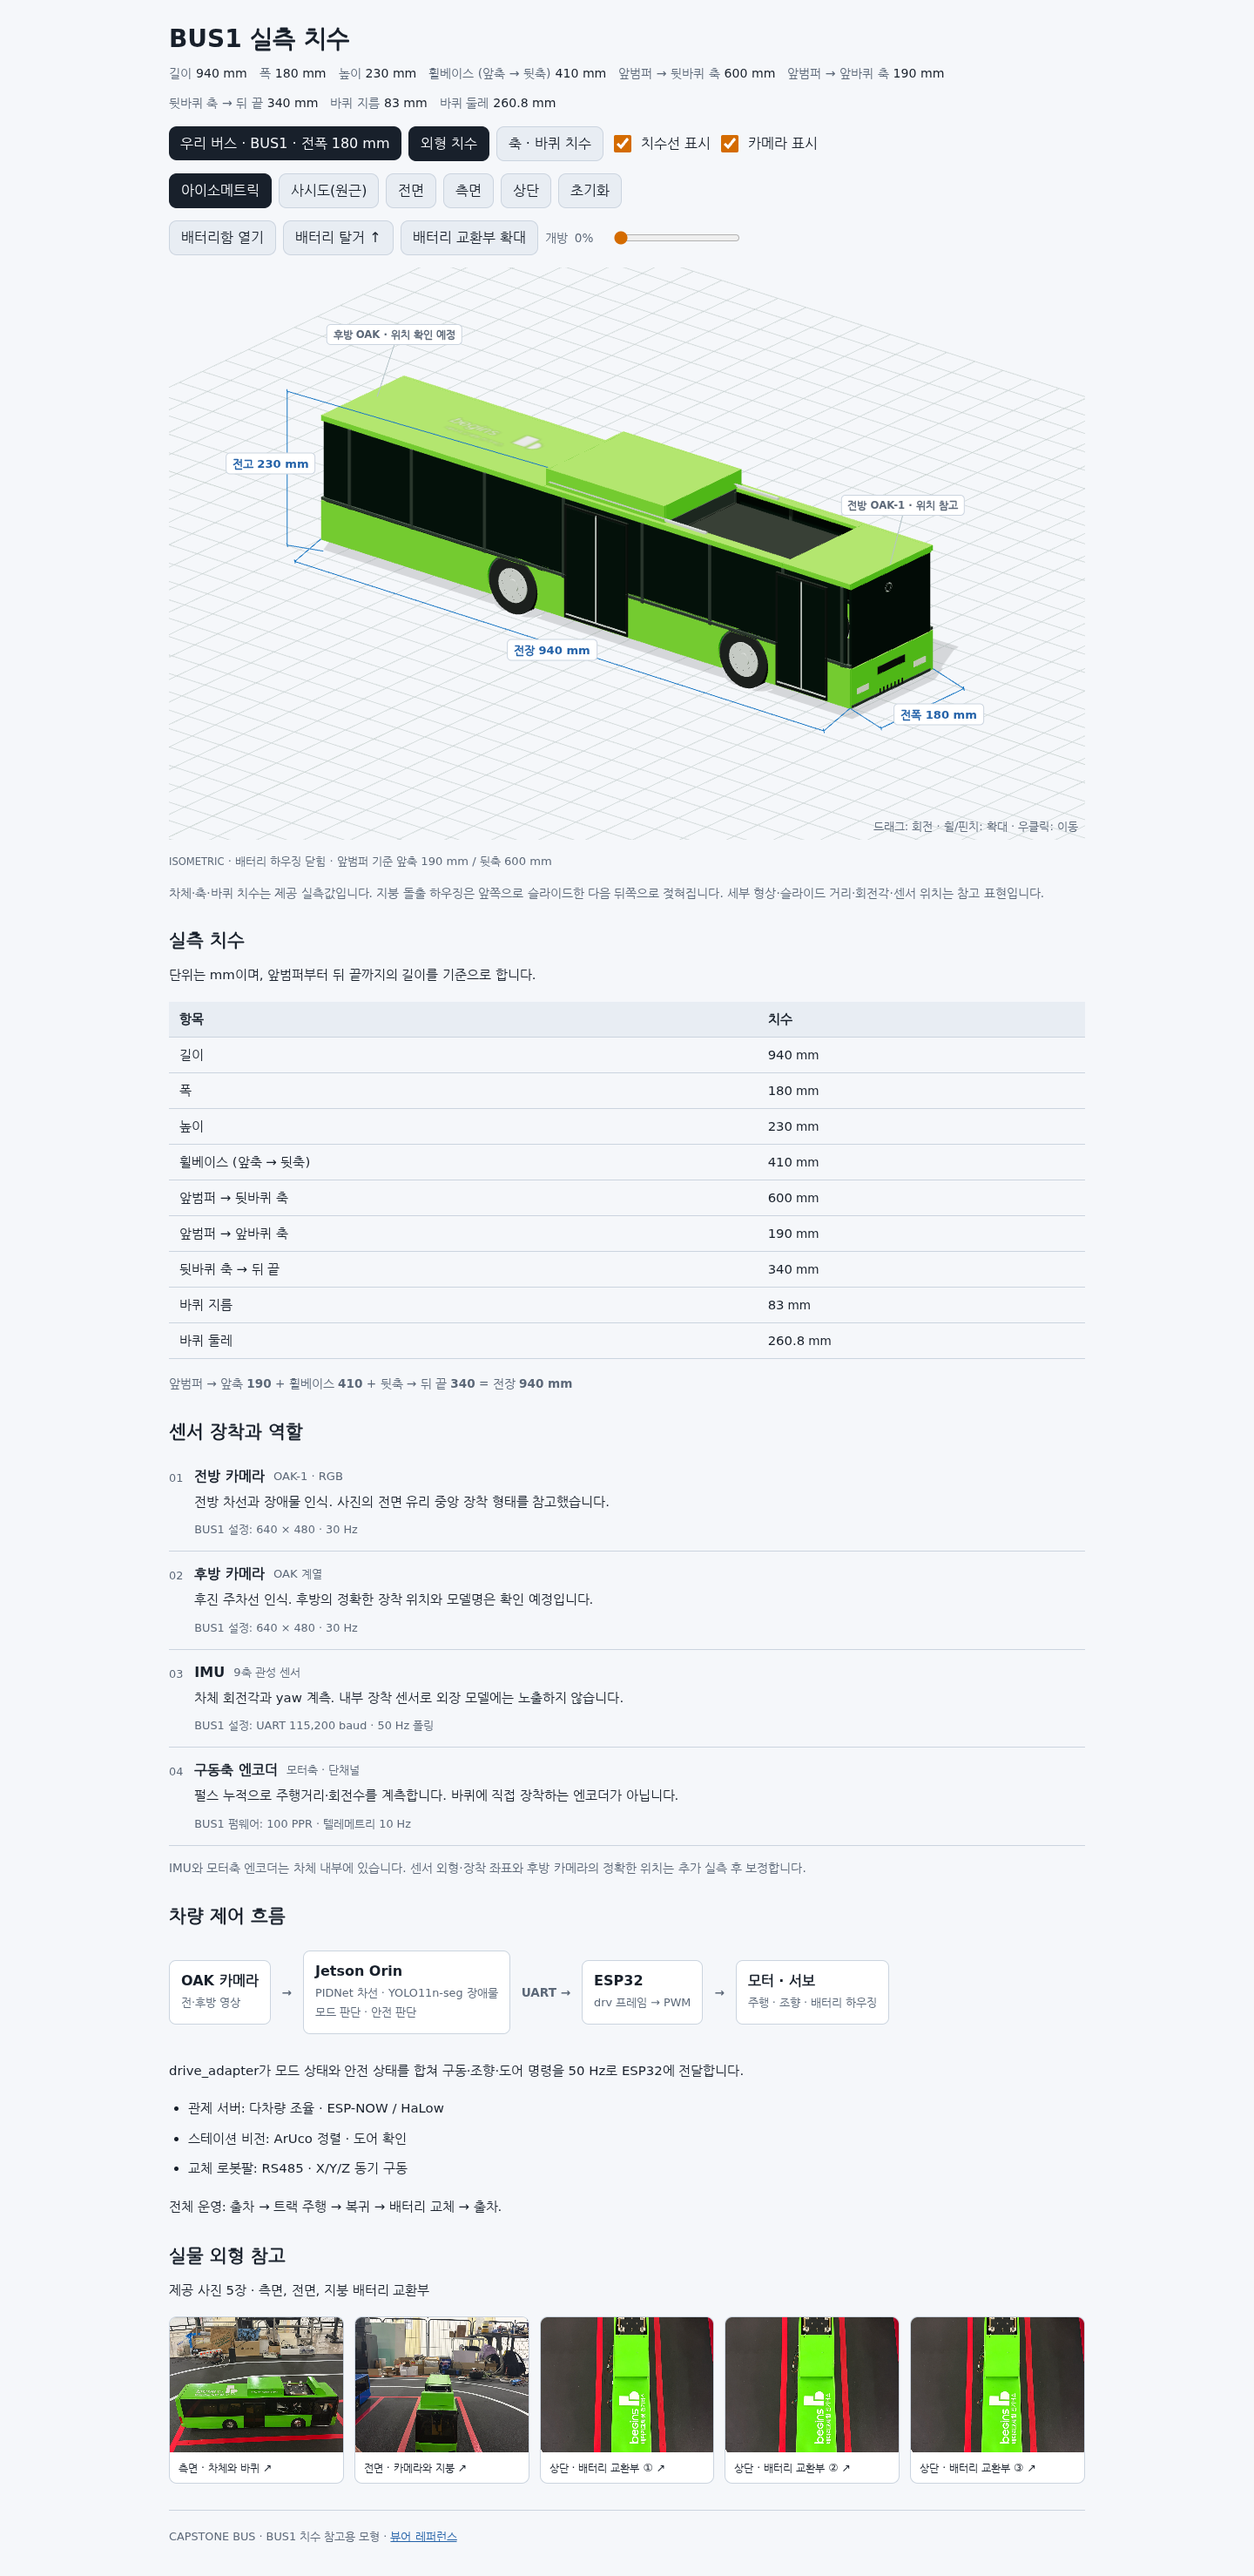
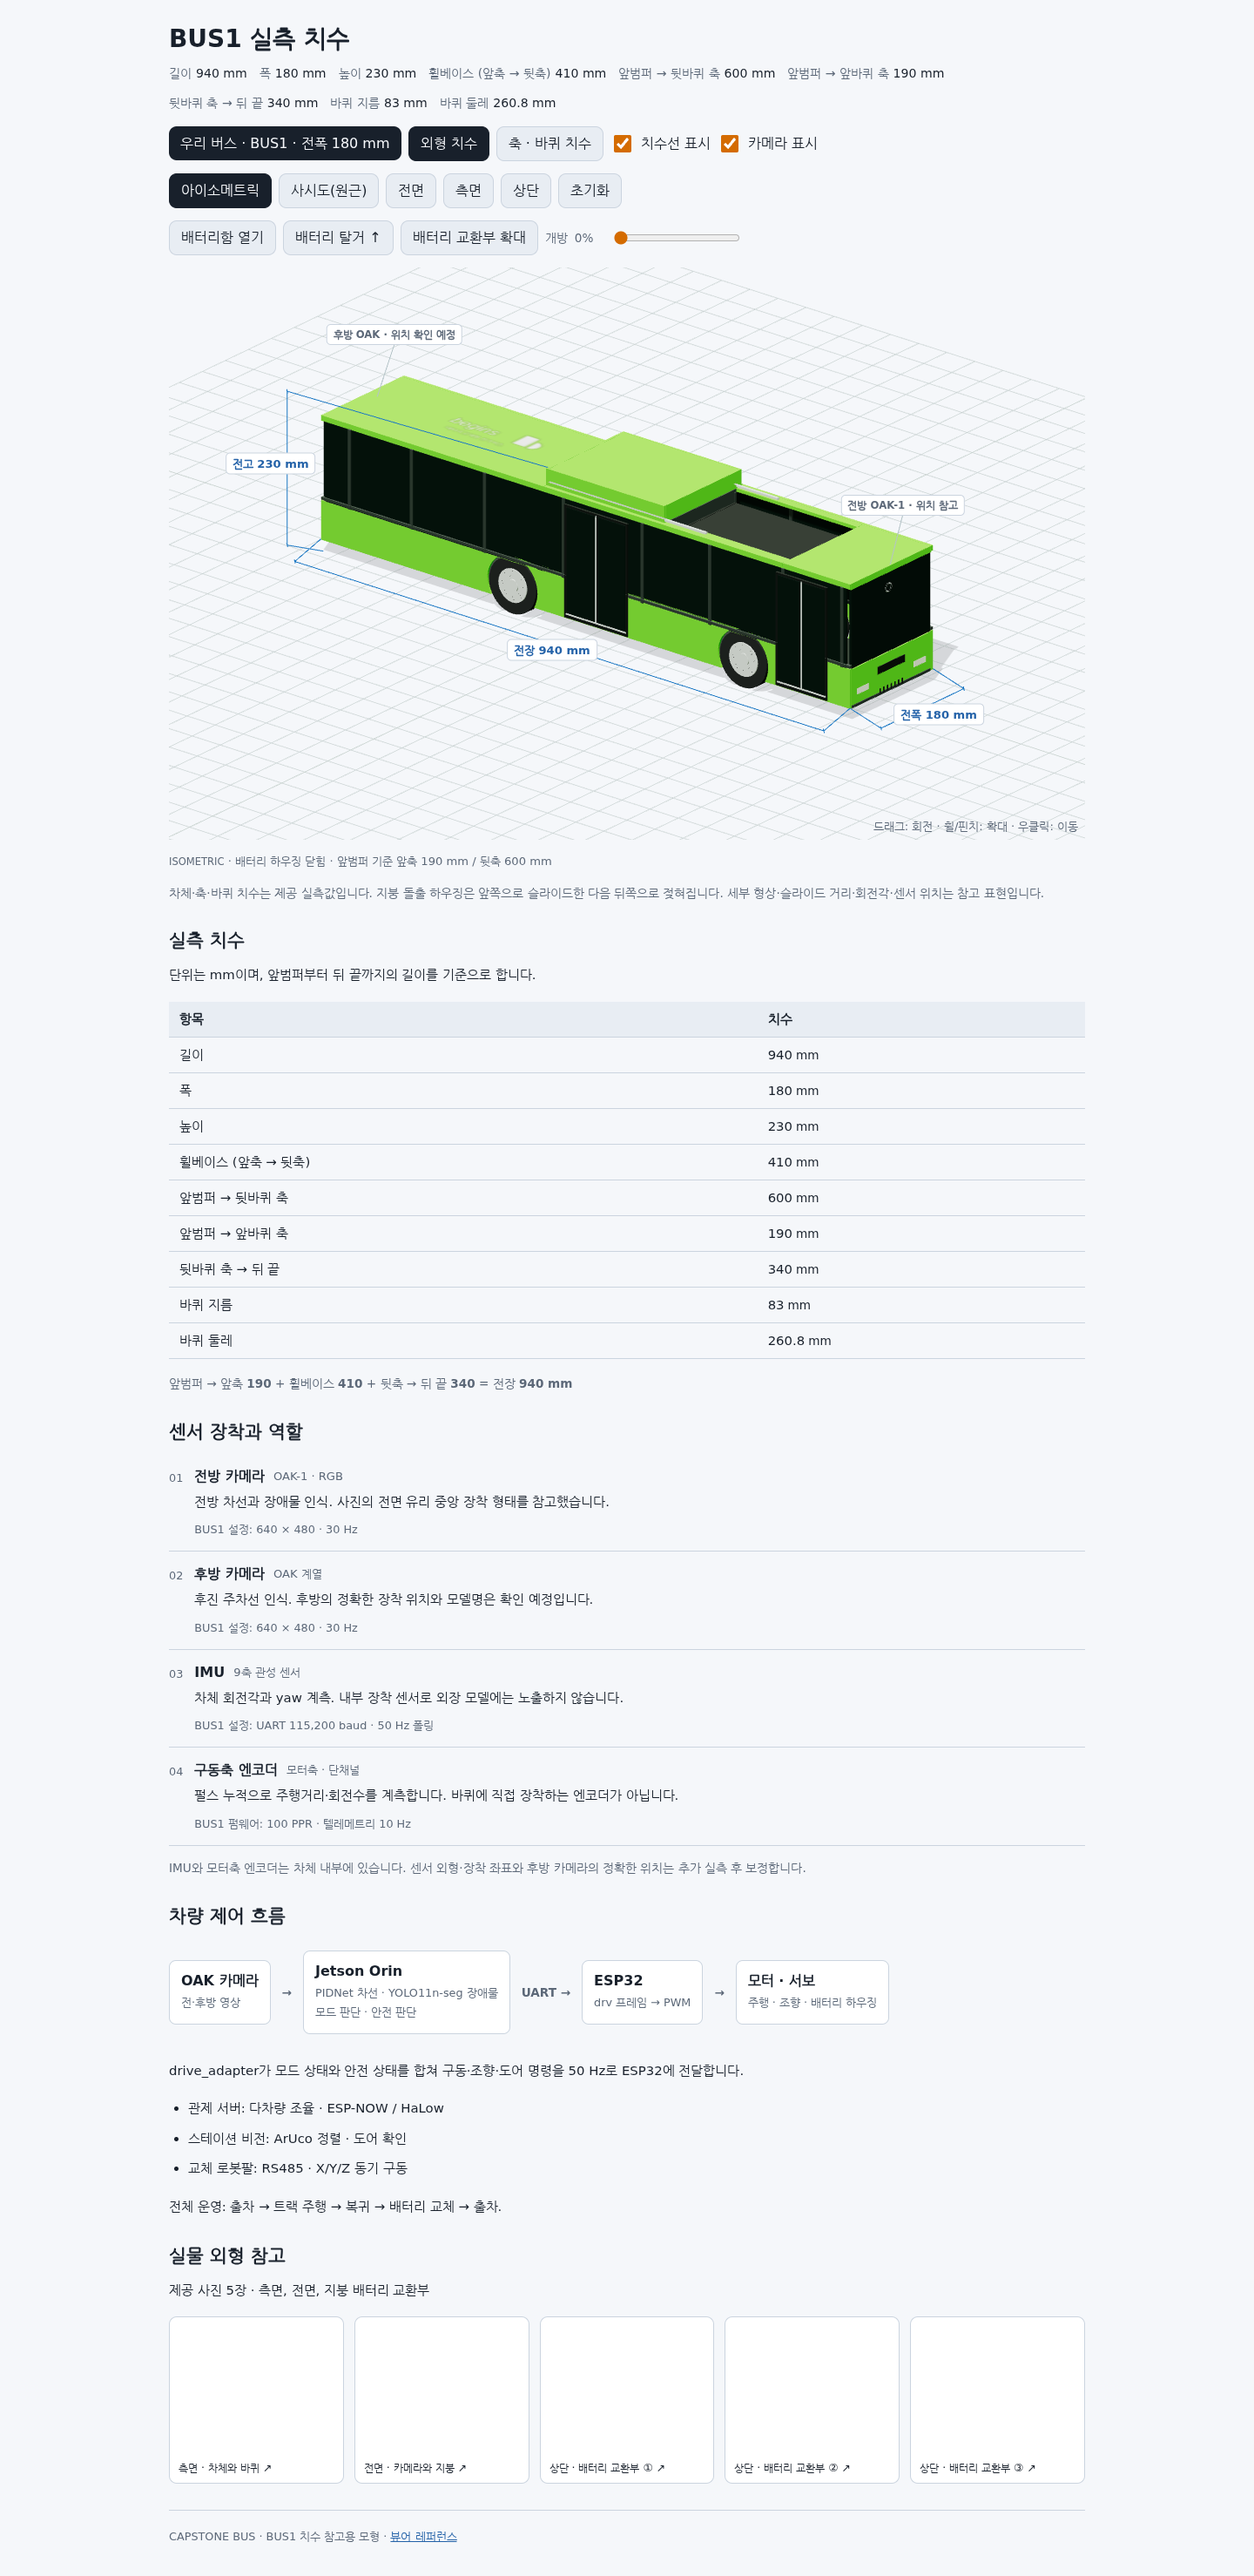
docs: enable public repository and verified GitHub Pages viewer

Changed region(s): [[0.125, 0.9023, 0.875, 0.9645]]

diff --git a/docs/개발현황.md b/docs/개발현황.md
@@ -23,13 +23,14 @@
 - Vite 프로덕션 빌드 PASS. Three.js 청크가 500kB를 넘는 빌드 경고가 남아 있다.
 - 패키지 감사: 취약점 0. 개발 서버는 Vite 6.4.3을 사용한다.
 - [검증 기록](verification/2026-10-03-viewer.md) 및 해당 폴더의 화면 캡처 참조.
+- GitHub Pages 첫 배포 성공, 공개 URL HTTP200 및 실제 공개 주소의 Chromium 브라우저 회귀 PASS.
+  [공개 배포 검증](verification/2026-10-03-public-pages.md).
 
 ## 미해결 항목과 다음 우선순위
 
 1. 배터리 하우징의 동작 순서는 사용자 설명을 반영했다. 실제 슬라이드 거리·회전각·피벗 위치는 실측 전이다.
 2. 센서 중심 좌표·센서 외형 치수·후방 OAK 모델명은 실측 전이다. 실제 좌표 치수선을 추가하지 않았다.
 3. 지붕 기본 높이와 세부 형상은 사진 가정이다. 제조사 CAD 정밀도를 의미하지 않는다.
-4. GitHub 저장소 [smoony0226/capstone_bus](https://github.com/smoony0226/capstone_bus)를 비공개로 생성했다.
-   README의 `뷰어 실행` 링크와 `gh-pages` 정적 배포 브랜치를 준비했다.
-   Pages 생성 API가 현재 요금제의 비공개 저장소 미지원으로 HTTP 422를 반환했다.
-   저장소 공개 전환 사용자 확인이 필요하며, 공개 배포는 아직 수행하지 않았다.
+4. 사용자 요청으로 저장소를 공개 전환하고 무료 GitHub Pages를 활성화했다.
+   배포 원천은 `gh-pages` 브랜치 루트다. README의 `뷰어 실행` 링크와 저장소 홈페이지 링크를 설정했다.
+   실행 주소: https://smoony0226.github.io/capstone_bus/

diff --git a/README.md b/README.md
@@ -7,10 +7,10 @@ TEAM RACER의 BUS1을 기준으로 만든 브라우저용 3D 치수 뷰어입니
 
 ### [▶ 뷰어 실행](https://smoony0226.github.io/capstone_bus/)
 
-배포 준비 중입니다. 현재 비공개 저장소의 GitHub Pages 사용이 요금제 제한으로 막혀 있으며,
-공개 전환 확인 후 활성화합니다. 활성화되면 설치 없이 PC·모바일 브라우저에서 바로 열립니다.
+설치 없이 맥북 Safari·Chrome과 PC·모바일 브라우저에서 바로 열 수 있습니다.
+GitHub Pages 무료 호스팅을 사용합니다.
 
-저장소: [smoony0226/capstone_bus](https://github.com/smoony0226/capstone_bus) (비공개).
+저장소: [smoony0226/capstone_bus](https://github.com/smoony0226/capstone_bus) (공개).
 
 ## 실행
 
@@ -29,7 +29,7 @@ npm run preview
 
 `dist/`는 정적 호스팅에 올릴 수 있는 결과물입니다. 상대 경로로 빌드하므로 GitHub Pages의 `/capstone_bus/`에서도 동작합니다.
 빌드 결과는 `gh-pages` 브랜치에 저장합니다. Pages의 배포 원천은 해당 브랜치의 루트입니다.
-현재 공개 배포는 아직 하지 않았습니다. 소스를 수정하면 다시 빌드한 결과를 배포 브랜치에 반영해야 합니다.
+GitHub Pages 배포를 활성화했습니다. 소스를 수정하면 다시 빌드한 결과를 배포 브랜치에 반영해야 합니다.
 
 브라우저 회귀 시험은 `npx playwright install chromium` 후 개발 서버를 실행한 상태에서
 `npm run test:browser`로 수행합니다. 결과 캡처와 검증 경계는 `docs/verification/`에 있습니다.

diff --git a/docs/verification/2026-10-03-public-pages.md b/docs/verification/2026-10-03-public-pages.md
@@ -1,0 +1,28 @@
+# GitHub Pages 공개 배포 검증
+
+2026-10-03 사용자 요청으로 `smoony0226/capstone_bus`를 공개 전환했다.
+빌드 결과 `gh-pages` 브랜치1efaf39를 GitHub Pages의 루트 원천으로 지정했다.
+유료 플랜 변경이나 결제는 수행하지 않았다.
+
+## 확인
+
+- 저장소 API `private=false`, Pages `public=true`, `https_enforced=true` 확인.
+- [Pages 배포 실행](https://github.com/smoony0226/capstone_bus/actions/runs/37059752680):
+  build30초, deploy8초, 전체 성공.
+- 공개 주소 https://smoony0226.github.io/capstone_bus/ HTTP200 확인.
+- Playwright1.56.1 / Chromium141 / SwiftShader로 실제 공개 주소에 접속했다.
+
+```bash
+VIEWER_URL=https://smoony0226.github.io/capstone_bus/ SKIP_MODEL_CHECK=1 npm run test:browser
+```
+
+결과 PASS: WebGL 초기화, 시점5개, 치수·카메라 토글, 하우징 슬라이드/후방 젖힘,
+개방 완료 후 팩 탈거·복귀·초기화, 사진5장·확대, 모바일390px 넘침 없음,
+밝은/어두운 테마, WebGL 실패 시 표 유지·오류 안내. 일반 화면 console/pageerror0.
+
+## 경계
+
+실제 공개 서비스의 자산 경로·렌더링·UI를 확인했다. 소스 모듈을 직접 불러오는 메쉬 기하 검사는
+개발 서버에서 앞서 수행했으므로 이번 공개 주소 시험에서는 생략했다.
+실제 macOS Safari 및 하드웨어 센서·배터리 기구 실물 시험은 수행하지 않았다.
+README의 `뷰어 실행` 링크와 저장소 홈페이지에 동일한 공개 주소를 등록했다.

diff --git a/docs/작업일지.md b/docs/작업일지.md
@@ -55,3 +55,15 @@
   기존 앞쪽 얇은 판의 수직 개방 표현은 제거했다.
 - `npm run build` PASS, 프로덕션 preview(4173) 브라우저 회귀 PASS,
   `git diff --check` PASS. 수정 코드와 정적 빌드 결과를 main/gh-pages에 반영한다.
+
+## 2026-10-03 — 공개 전환과 GitHub Pages 활성화
+
+- 사용자 요청: `capstone_bus` 저장소 공개 전환.
+- GitHub API로 `private=false`를 적용하고 Pages 원천을 `gh-pages` 브랜치 루트로 지정했다.
+  저장소 홈페이지를 `https://smoony0226.github.io/capstone_bus/`로 설정했다.
+- README·개발현황의 비공개·활성화 대기 문구를 현재 공개 배포 상태로 갱신했다.
+- 요금제 변경·유료 결제 없이 공개 저장소의 무료 Pages를 사용한다.
+- GitHub Pages 실행37059752680의 build/deploy 성공, 공개 URL HTTP200 확인.
+- `VIEWER_URL=https://smoony0226.github.io/capstone_bus/ SKIP_MODEL_CHECK=1 npm run test:browser`
+  PASS: 실제 공개 주소의 WebGL·시점·2단계 하우징 개방/탈거·초기화·사진·모바일·테마·오류 안내.
+  코드 변경은 없으며 기하 검사는 앞선 개발 서버 검증 결과를 유지한다.
